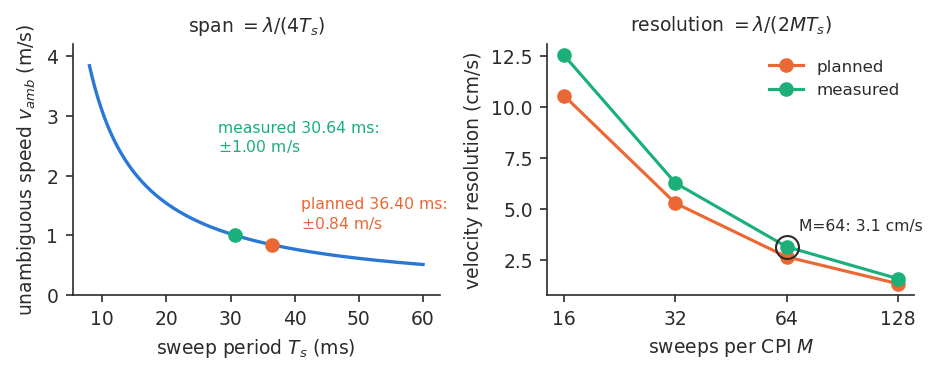
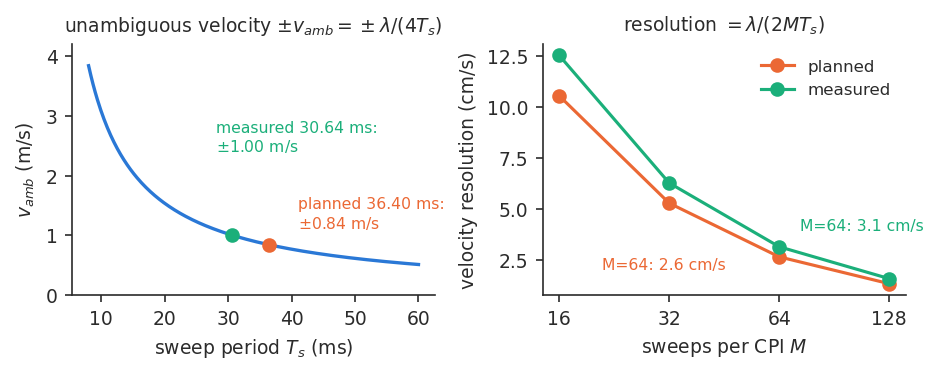
Researcher: b210-26 Step 1 -- second cold-read fixes
Define leakage, fast/slow time, wait and retune config keys, T_s as derived,
c value, v_amb naming; Fig. 4 titles and both M=64 annotations; method doc named once.

Directive: b210-26
Tracker: no tracker

Claude-Session: https://claude.ai/code/session_012SGcFeRLywrBLC2k5btXwv

diff --git a/docs/figures/stepped_frequency_primer_figures.py b/docs/figures/stepped_frequency_primer_figures.py
@@ -183,13 +183,15 @@ for lab, tv, col, off in [("planned", TS_PLAN, ORANGE, (14, 8)), ("measured", TS
                     textcoords="offset points", xytext=off, fontsize=7.5, color=col,
                     ha="left" if off[0] > 0 else "left")
 axs[0].set_xlabel("sweep period $T_s$ (ms)")
-axs[0].set_ylabel("unambiguous speed $v_{amb}$ (m/s)")
-axs[0].set_title("span $=\\lambda/(4T_s)$", fontsize=9)
+axs[0].set_ylabel("$v_{amb}$ (m/s)")
+axs[0].set_title("unambiguous velocity $\\pm v_{amb}=\\pm\\lambda/(4T_s)$", fontsize=9)
 axs[0].set_ylim(0, 4.2)
 for tv, lab, col in [(TS_PLAN, "planned", ORANGE), (TS_MEAS, "measured", GREEN)]:
     axs[1].plot(ms, 100 * LAM / (2 * ms * tv), "o-", color=col, label=lab)
-axs[1].plot([M], [100 * LAM / (2 * M * TS_MEAS)], "o", mfc="none", mec=INK, ms=11)
-axs[1].text(M * 1.08, 100 * LAM / (2 * M * TS_MEAS) * 1.25, f"M=64: {DD_MEAS.velocity_resolution_mps * 100:.1f} cm/s", fontsize=7.5)
+for tv, col, dy in [(TS_PLAN, ORANGE, 0.55), (TS_MEAS, GREEN, 1.45)]:
+    v = 100 * LAM / (2 * M * tv)
+    axs[1].annotate(f"M=64: {v:.1f} cm/s", (M, v), textcoords="offset points", xytext=(10, 8) if col == GREEN else (-85, -6),
+                    fontsize=7.5, color=col)
 axs[1].set_xscale("log", base=2)
 axs[1].set_xticks(ms)
 axs[1].set_xticklabels([str(m) for m in ms])

diff --git a/docs/theory/stepped_frequency_primer.md b/docs/theory/stepped_frequency_primer.md
@@ -1,9 +1,9 @@
 # Stepped-frequency radar: a primer for sar_b210
 
 All numbers are for `configs/default.yaml`. Formulas are those of
-[`delay_doppler.md`](../delay_doppler.md) §5; derivations are in its §2-§4 and are not repeated here.
+[`docs/delay_doppler.md`](../delay_doppler.md) (the method doc) §5; derivations are in its §2-§4 and are not repeated here.
 Every number below is printed by `docs/figures/stepped_frequency_primer_figures.py` from `b210_sar.budget`.
-Terms: $c$ is the speed of light; the *carrier* is the centre of the stitched band, $f_c$ = 2441.75 MHz, and
+Terms: $c$ = 299 792 458 m/s (with 3e8, $R_{amb}$ below would read 3000 m); the *carrier* is the centre of the stitched band, $f_c$ = 2441.75 MHz, and
 $\lambda=c/f_c$ = 12.28 cm is its wavelength (for a new config, use its `center_freq_hz`).
 
 ## 1. One chirp: delay becomes frequency
@@ -12,7 +12,8 @@ The radar transmits a linear sweep (a chirp) of bandwidth $B$ over a time $T_c$.
 same sweep, late by the round-trip delay $\tau$. At any instant the echo is therefore at a slightly different
 frequency than what is being sent, and that difference is proportional to $\tau$ (Fig. 1). Mixing the echo with the
 transmit signal turns it into a tone; matched filtering it (correlating the echo against a copy of the transmitted
-chirp, which is what sar_b210 does, §2 of the method doc) gives a peak. Either way delay maps to a frequency or peak position, and range is $R=c\tau/2$.
+chirp) gives a peak. sar_b210 does the matched filter (method doc §2); the beat tone is the same
+information seen another way. Either way delay maps to a frequency or peak position, and range is $R=c\tau/2$.
 
 ![Fig. 1](../figures/fig_sfp_chirp.png)
 
@@ -24,11 +25,12 @@ resolves 3.33 m.
 
 ## 2. Stepping and stitching: more band than one chirp can carry
 
-Range resolution comes from bandwidth, and one chirp is limited to what the radio passes: about 56 MHz at
-56 MS/s, of which the default uses 45 MHz. So the radar retunes its centre frequency by $\Delta f$,
+Range resolution comes from bandwidth, and one chirp is limited to what the radio passes: complex (I/Q) baseband at
+$f_s$ = 56 MS/s covers about 56 MHz, of which the default uses 45 MHz so the filter edges stay clear. So the radar retunes its centre frequency by $\Delta f$,
 sends the next chirp, and glues the sub-bands side by side in the frequency domain (Fig. 2). The occupied
-band is $B_{tot}=(N-1)\Delta f+B$. The synthesizer phase is random after every retune, so the pieces only add
-coherently after each step is referenced to its own leakage (method doc §3, stitching in §4). The sub-bands overlap
+band is $B_{tot}=(N-1)\Delta f+B$. The synthesizer phase is random after every retune. The leakage (the direct TX-to-RX path, a strong echo at a known
+delay in every step) is a reference: dividing each step by its own leakage phase removes that random phase, so the pieces add coherently
+(method doc §3, stitching §4). The sub-bands overlap
 on purpose: the weak, tapered chirp edges are discarded, and the overlap keeps the band continuous after that.
 
 ![Fig. 2](../figures/fig_sfp_stitch.png)
@@ -50,37 +52,39 @@ warns above $\Delta f>0.9B$ (40.5 MHz here): the discarded edges eat into the ov
 ![Fig. 3](../figures/fig_sfp_grating.png)
 
 *Fig. 3. Range profile of a point target, flat spectrum, no window (illustrative, not the processing chain). Left: the default, first sidelobe −13.5 dB.
-Right: $\Delta f$ = 60 MHz, above the 40.5 MHz warning, a lobe at −7.8 dB near $c/(2\Delta f)$ = 2.50 m.*
+Right: $\Delta f$ = 60 MHz, above the 40.5 MHz warning: a shoulder at −7.8 dB beside the mainlobe, near $c/(2\Delta f)$ = 2.50 m.*
 
 Default: $\Delta R$ = 2.00 m (3.33 m with one step), $R_{amb}$ = 2998 m (exact $c$). $\Delta f/B$ = 0.67, so no gaps.
 
 ## 4. Doppler across sweeps: speed from slow time
 
-A moving target changes its delay a little from sweep to sweep, which rotates the echo's phase. A **sweep** is one
-pass through all $N$ steps, and takes a time $T_s$ (assumed uniform from sweep to sweep). Following one range bin
-(one delay cell of width $\Delta R$) over $M$ sweeps, the **slow time** axis, which together form the coherent
-processing interval (CPI), the phase rotation is a Doppler frequency, just as range was a frequency within a chirp.
+Within a chirp, range is a frequency: this is **fast time**. A moving target also changes its delay a little from sweep
+to sweep, which rotates the echo's phase. A **sweep** is one pass through all $N$ steps, taking $T_s$ (assumed uniform). Take
+one range bin (one delay cell, $\Delta R$ wide) and follow its phase over $M$ consecutive sweeps. The sweep-to-sweep index is
+**slow time**, sampled once per $T_s$, and the $M$ sweeps form one coherent processing interval (CPI). The phase rotation
+across them is a Doppler frequency.
 A target closing at speed $v$ gives $f_D=2v/\lambda$. Sweeps sample it once per $T_s$, so $f_D$ is unambiguous only within
-$\pm 1/(2T_s)$, i.e. $v_{amb}=\pm\lambda/(4T_s)$ (faster targets alias), and over $M$ sweeps $f_D$ resolves to
-$1/(MT_s)$, i.e. a velocity resolution $\lambda/(2MT_s)$. A slow sweep hurts the first; a short CPI hurts the second (Fig. 4).
+$\pm 1/(2T_s)$, i.e. the **unambiguous velocity** is $\pm v_{amb}=\pm\lambda/(4T_s)$, a full span of $2v_{amb}$ (faster targets alias), and over $M$ sweeps $f_D$ resolves to
+$1/(MT_s)$, i.e. a velocity resolution $\lambda/(2MT_s)$. (Fig. 4).
 
 ![Fig. 4](../figures/fig_sfp_velocity.png)
 
-*Fig. 4. Left: $v_{amb}$ against $T_s$. Right: velocity resolution against $M$.*
+*Fig. 4. Left: $v_{amb}$ against $T_s$. Right: velocity resolution against $M$, both $T_s$ shown (values at $M$ = 64 annotated).*
 
 Default, $M$ = 64, with the two $T_s$ of §5: planned 36.40 ms gives $v_{amb}$ = ±0.84 m/s, resolution 2.6 cm/s;
 the measured 30.637 ms (RX-only run) gives ±1.00 m/s and 3.1 cm/s. Use ±0.84 m/s for planning a TX+RX run.
 
 ## 5. The time budget: where $T_s$ comes from
 
-Each step costs three things, in order: **retune** (the synthesizer, the local oscillator that sets the carrier, moves and
-locks), **wait** (the oscillator settles, and the timed commands, which the host issues ahead of the burst so TX and RX start on a
-chosen clock tick, lead it) and **dwell** (the burst: here 50 chirps of 20 µs; averaging them gains 10 log10 50 = 17 dB of
-signal-to-noise ratio, as the noise is independent between chirps). The radar samples complex baseband as `sc16` (16-bit I and Q).
-The sweep is $N$ steps of that (Fig. 5), so every design choice lands on $T_s$:
+Each step costs three things, in order: **retune** (`retune_s`: the synthesizer, the local oscillator that sets the carrier, is commanded to the new frequency and
+locks; 9.2 ms here, measured on the B210), **wait** (`settle_margin_s`: after locking, the oscillator's phase and leakage keep drifting for
+a while, so the burst is held back until it is stable; 8.0 ms, or `command_lead_s` + $T_c$ = 2.02 ms if that is longer, since the host
+issues the timed TX/RX commands that far ahead of the burst) and **dwell** (`dwell_s` = 1.0 ms: 50 chirps of 20 µs, whose average
+gains 10 log10 50 = 17 dB of signal-to-noise ratio, as noise is independent between chirps). The radar samples as `sc16` (16-bit I and Q).
+$T_s$ is therefore **derived, not an input**: $T_s\approx N\times$(retune + wait + dwell), here 2 × 18.2 ms. A config that asks for a
+faster sweep than this arithmetic allows is inconsistent. Fig. 5 shows the budget.
 
-- more steps $N$ give more band but a proportionally slower sweep, so a smaller $v_{amb}$;
-- a longer dwell gives more energy per step and a slower sweep.
+More steps $N$ or a longer dwell buy band or energy at the price of a slower sweep, hence a smaller $v_{amb}$.
 
 ![Fig. 5](../figures/fig_sfp_timing.png)
 
